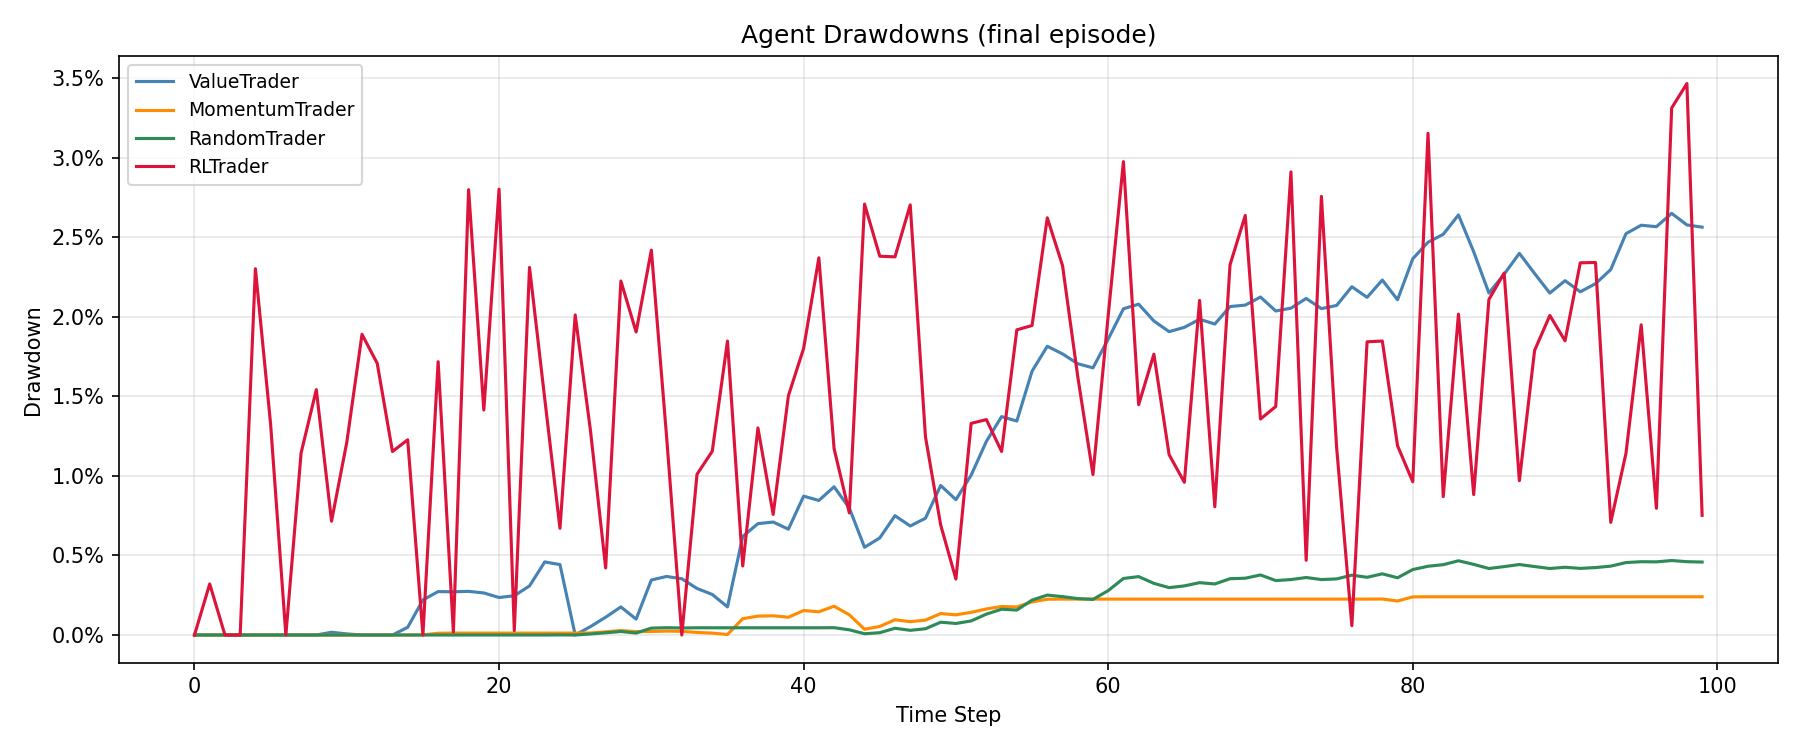
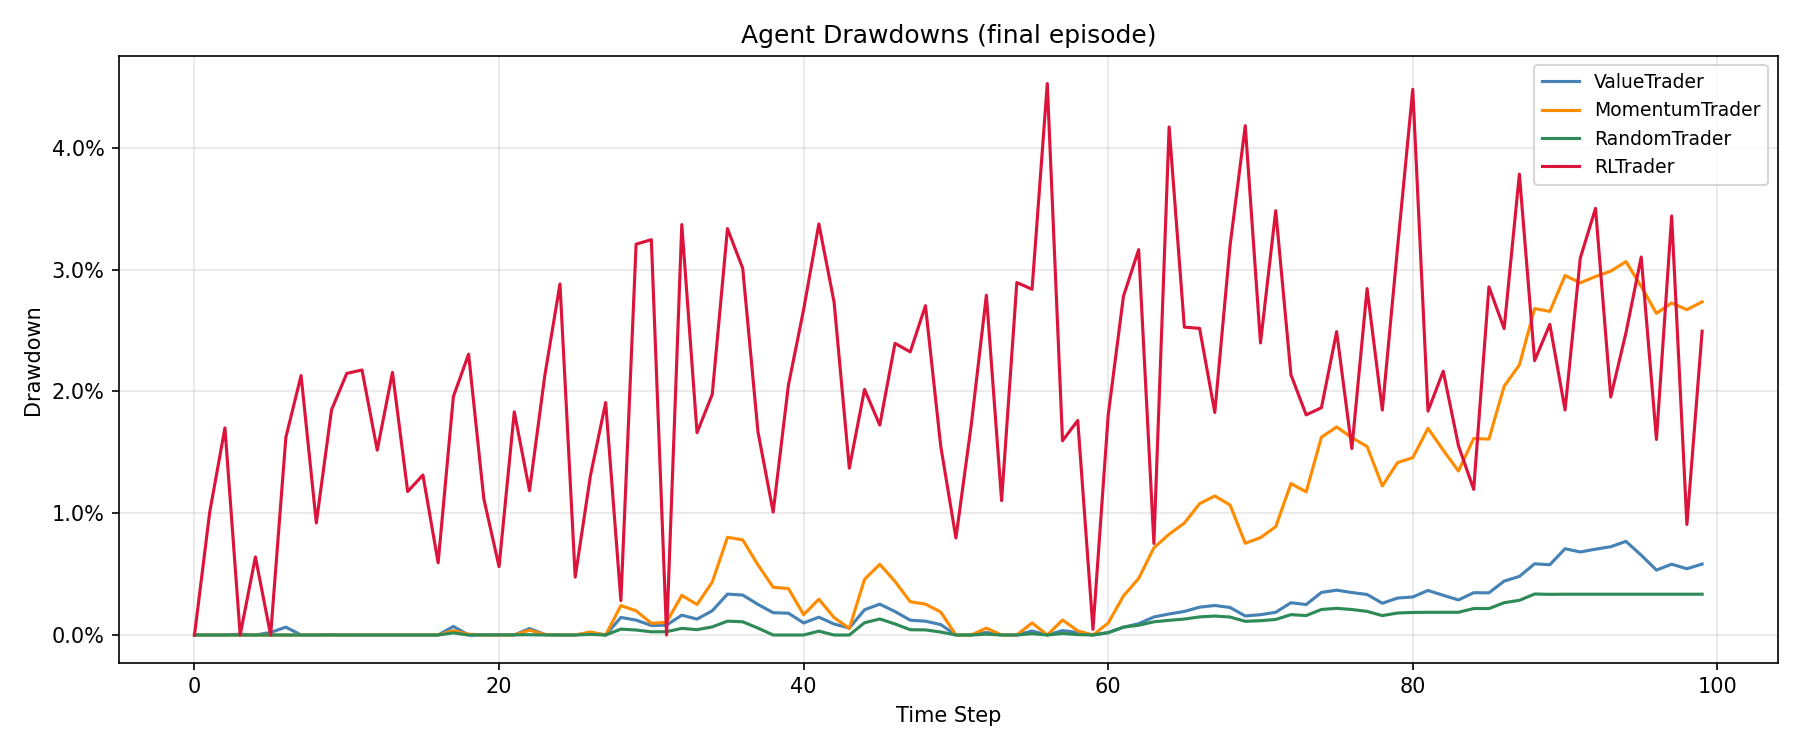
Adapt trading risk based on market conditions automatically
Implement dynamic, signal-driven exposure caps for trading assets, allowing the system to automatically adjust risk based on volatility, liquidity, and market regime.

Replit-Commit-Author: Agent
Replit-Commit-Session-Id: 3826bf3c-e3fd-4317-b321-61e418fea702
Replit-Commit-Checkpoint-Type: full_checkpoint
Replit-Commit-Event-Id: 17f03bac-e848-41f1-902d-cdbaf4d7f7ac
Replit-Helium-Checkpoint-Created: true

diff --git a/project/simulation/simulation.py b/project/simulation/simulation.py
@@ -160,6 +160,10 @@ class Simulation:
         self.macro_regime    = 0
         self.internal_regime = 0   # computed each step in AUTO mode
 
+        # --- Dynamic exposure caps (updated every step) -------------------
+        self.dynamic_caps      = {}   # asset → current cap
+        self.prev_dynamic_caps = {}   # asset → cap from previous step
+
         # --- Macro feedback message log -----------------------------------
         # Populated each step when manual flag conflicts with signals,
         # or when AUTO mode detects uncertain / mixed conditions.
@@ -524,6 +528,63 @@ class Simulation:
             state.macro_regime     = self.macro_regime
             state.internal_regime  = self.internal_regime
 
+            # --- Dynamic exposure caps ------------------------------------
+            # Per-asset caps that adapt each step to volatility, liquidity,
+            # altseason momentum, and the effective macro regime.
+            _base_caps = {
+                "SOL":  1.0,
+                "XRP":  0.8,
+                "LINK": 0.7,
+                "ETH":  0.6,
+                "BTC":  0.3,
+            }
+            _alt = self.altseason_index
+            _vol = self.vol_regime
+            _liq = self.liq_regime
+            _regime = self.internal_regime if self.macro_regime == 2 else self.macro_regime
+
+            self.dynamic_caps = {}
+            for _asset, _base in _base_caps.items():
+                _cap = _base
+
+                if _regime > 0:
+                    _cap *= (1.0 + 0.5 * _alt)
+                    if _vol > 0.02:
+                        _cap *= 0.7
+                    if _liq > 0.5:
+                        _cap *= 1.2
+                elif _regime < 0:
+                    _cap *= 0.5
+                    if _vol > 0.02:
+                        _cap *= 0.5
+                    if _liq < 0.3:
+                        _cap *= 0.7
+                else:
+                    if _vol > 0.02:
+                        _cap *= 0.7
+                    if _liq > 0.5:
+                        _cap *= 1.1
+
+                # Clamp to [0.1, 1.5 × base]
+                self.dynamic_caps[_asset] = max(0.1, min(1.5 * _base, _cap))
+
+            setattr(state, "dynamic_caps", self.dynamic_caps)
+
+            # --- Dynamic cap change feedback ------------------------------
+            for _asset in self.assets:
+                _old = self.prev_dynamic_caps.get(_asset)
+                _new = self.dynamic_caps[_asset]
+                if _old is not None and abs(_new - _old) > 0.2 * _old:
+                    _cmsg = (
+                        f"Dynamic cap shift for {_asset}: "
+                        f"{_old:.2f} → {_new:.2f} "
+                        f"(regime={_regime:+d}, vol={_vol:.3f}, alt={_alt:.3f})"
+                    )
+                    self.macro_messages.append(_cmsg)
+                    print(_cmsg)
+
+            self.prev_dynamic_caps = self.dynamic_caps.copy()
+
             # --- Macro feedback: signal / manual-call conflict detection --
             _msg = None
             if self.macro_regime in (-1, 0, +1):
@@ -608,7 +669,8 @@ class Simulation:
                         for a in agent.assets
                     }
                     cost = self.broker.execute_portfolio_exposure(
-                        agent, _asset_prices, self.apply_microstructure
+                        agent, _asset_prices, self.apply_microstructure,
+                        simulation=self,
                     )
                     rl_txn_costs[agent] = cost
 

diff --git a/project/broker/broker.py b/project/broker/broker.py
@@ -29,7 +29,7 @@ class Broker(ABC):
         Returns a list of Fill objects from the final match."""
 
     @abstractmethod
-    def execute_portfolio_exposure(self, agent, prices, microstructure_fn=None) -> float:
+    def execute_portfolio_exposure(self, agent, prices, microstructure_fn=None, simulation=None) -> float:
         """
         For each asset in agent.assets, ramp agent.positions[asset] toward
         agent.target_exposures[asset] and apply microstructure costs.
@@ -77,15 +77,14 @@ class SimulatedBroker(Broker):
     def fill_resting_orders(self, price) -> list:
         return self._exchange.fill_resting_orders(price)
 
-    def execute_portfolio_exposure(self, agent, prices, microstructure_fn=None) -> float:
+    def execute_portfolio_exposure(self, agent, prices, microstructure_fn=None, simulation=None) -> float:
         """
         For each asset in agent.assets, ramp agent.positions[asset] toward
         agent.target_exposures[asset] using up to max_steps increments.
 
-        The same dead-band (< 0.05), ramp logic, and microstructure cost
-        model that the single-asset execute_exposure used are applied
-        independently per asset.  agent.position is kept in sync with the
-        SOL position for backward-compatible display and featurize_state().
+        When `simulation` is provided, uses simulation.dynamic_caps for
+        per-asset exposure limits (regime-adaptive).  Falls back to the
+        agent's static max_long / max_short dicts when not available.
 
         Returns
         -------
@@ -100,10 +99,16 @@ class SimulatedBroker(Broker):
                 continue
 
             current = agent.positions[a]
-            # Clamp the actor's raw target to the agent's per-asset exposure caps
-            # before computing the delta so the broker never executes beyond them.
-            cap_long  = agent.max_long.get(a,  1.0)
-            cap_short = agent.max_short.get(a, -1.0)
+
+            # Dynamic caps (regime-adaptive) take priority; fall back to
+            # agent's static per-asset caps when not provided.
+            if simulation is not None and simulation.dynamic_caps.get(a) is not None:
+                cap_long  = simulation.dynamic_caps[a]
+                cap_short = -0.5 * cap_long
+            else:
+                cap_long  = agent.max_long.get(a,  1.0)
+                cap_short = agent.max_short.get(a, -1.0)
+
             target = max(cap_short, min(cap_long, agent.target_exposures[a]))
             delta  = target - current
 
